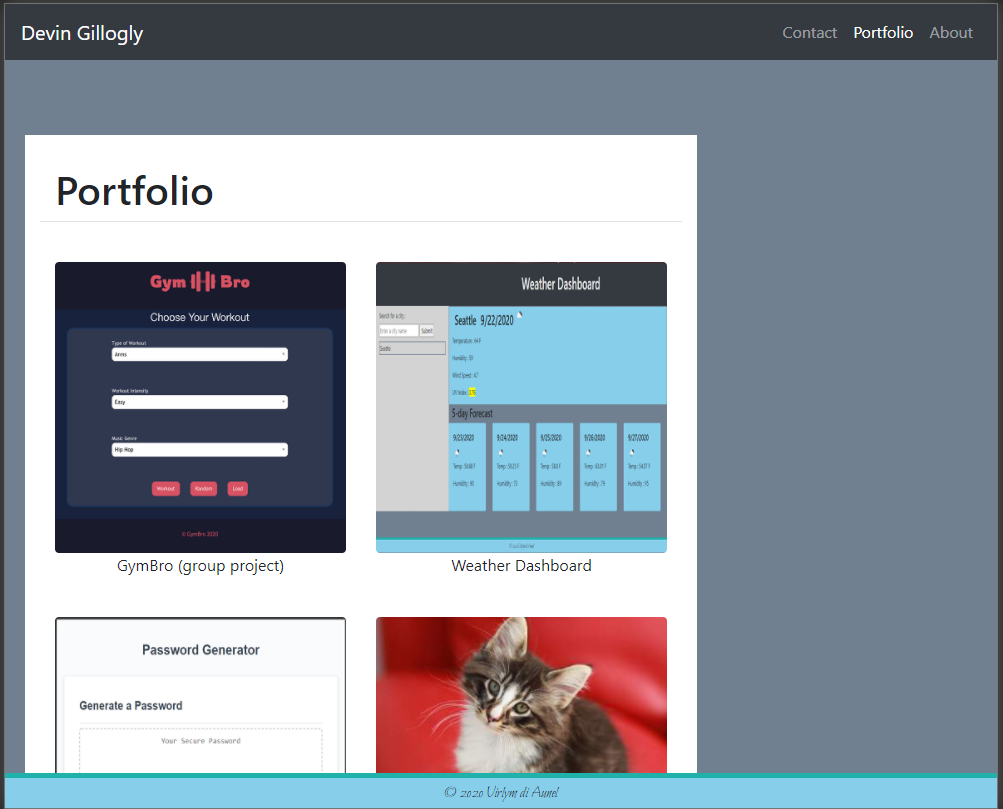
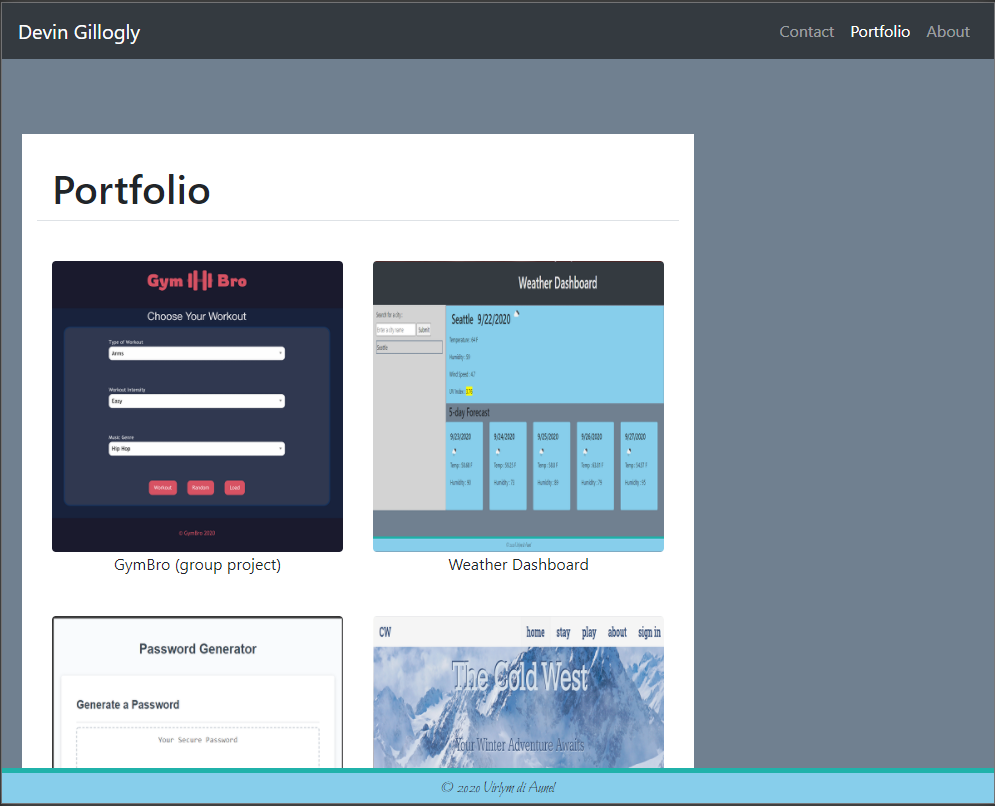
updated portfolio + resume link

diff --git a/portfolio.html b/portfolio.html
@@ -124,7 +124,32 @@
         </aside>
       </article>
       <article class="col-lg-6">
-        <img src="https://placekitten.com/350/350" class="figure-img img-fluid rounded folio-img" alt="placeholder img">
+        <img src="./Assets/tcwHomePageSized.PNG" class="figure-img img-fluid rounded folio-img" id = "tcwHomePic" alt="The Cold West img" data-toggle="modal" data-target="#tcwModal">
+        <figcaption> The Cold West </figcaption>
+        <aside class="modal fade" id="tcwModal" tabindex="-1" role="dialog" aria-labelledby="tcwModalLabel" aria-hidden="true">
+          <div class="modal-dialog modal-lg" role="document">
+            <div class="modal-content">
+              <div class="modal-header">
+                <h5 class="modal-title" id="tcwModalLabel">The Cold West</h5>
+                <button type="button" class="close" data-dismiss="modal" aria-label="Close">
+                  <span aria-hidden="true">&times;</span>
+                </button>
+              </div>
+              <div class="modal-body">
+                <img src="./Assets/tcwHomePage.PNG" class="img-fluid rounded" alt="The Cold West modal img">
+                <p>The Cold West is a web app that allows the user to get detailed information on ten of Washington's ski resorts and some activities they have. There is an option to create an account that will allow the user to save a favorite resort and activity. By saving a favorite, that will move quick access links to the user's dashboard for more direct access to the info page in the app as well as the resort's own home page.
+                </p>
+                <p> GitHub : <a href="https://github.com/kbnewlon/Cold-West-Tours" target="_blank">link</a>
+                </p>
+                <p>Deployed : <a href="https://the-cold-west.herokuapp.com/" target="_blank">link</a>
+                </p>
+              </div>
+              <div class="modal-footer">
+                <button type="button" class="btn btn-primary" data-dismiss="modal">Close</button>
+              </div>
+            </div>
+          </div>
+        </aside>
       </article>
     </section>
     <section class="row">

diff --git a/index.html b/index.html
@@ -59,7 +59,7 @@
         </p>
         <p> <a href="https://github.com/virlym" target="_blank">GitHub</a> <br> 
           <a href="https://www.linkedin.com/in/virlym/" target="_blank">LinkedIn</a> <br>
-          <a href = "https://drive.google.com/file/d/1k-lcoBlJhZdjbmpKTIygGQgwASJP7o1D/view?usp=sharing" target = "blank"> Resume </a>
+          <a href = "https://drive.google.com/file/d/1Fs5rSt7fjfaDtTiG-TOvz8wNWTeHrqEP/view?usp=sharing" target = "blank"> Resume </a>
         </p>
       </article>
     </section>
